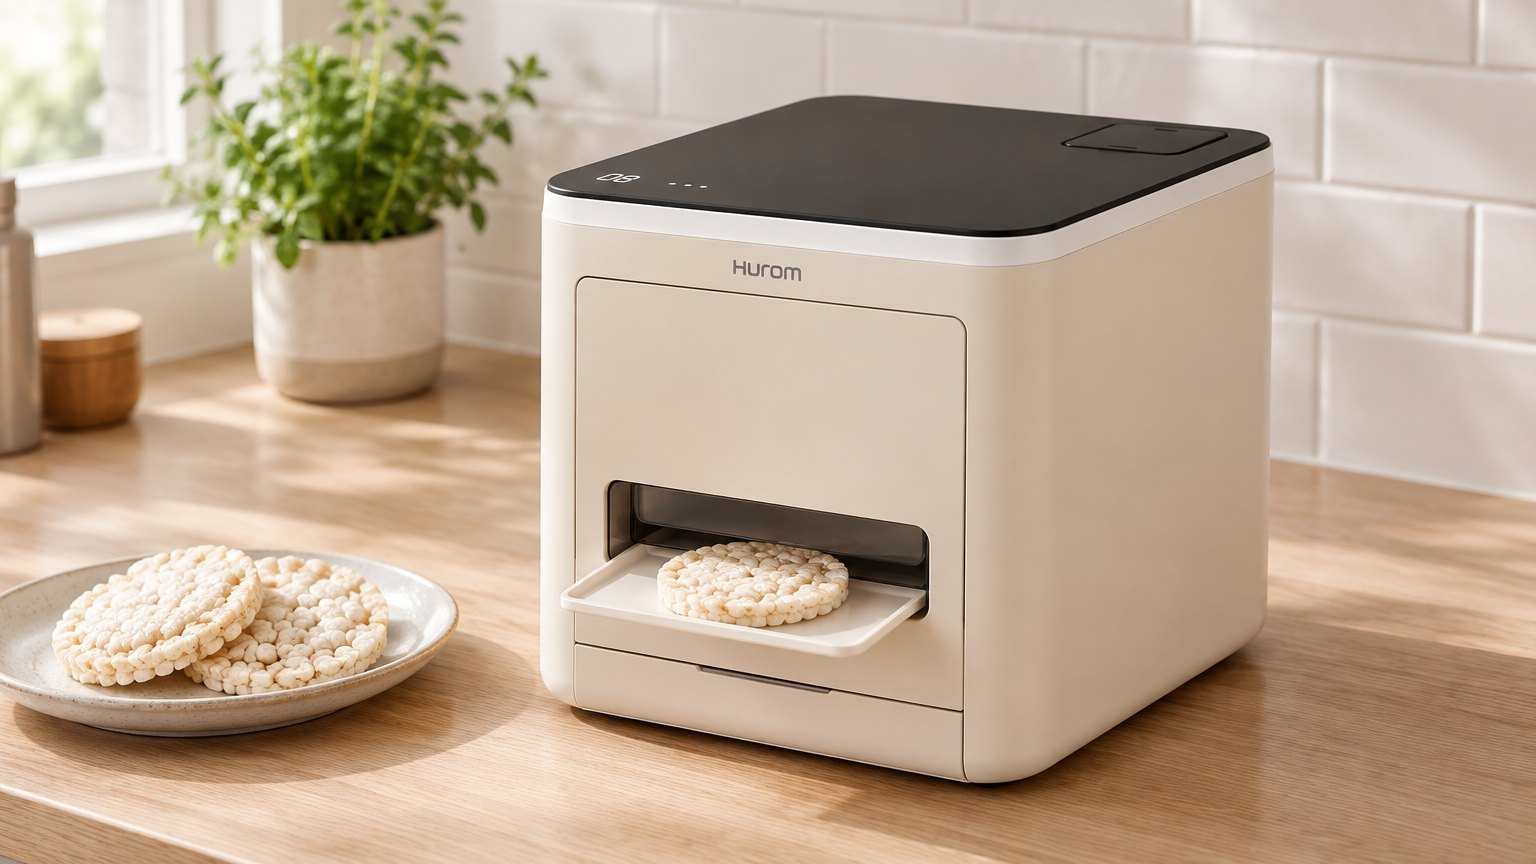
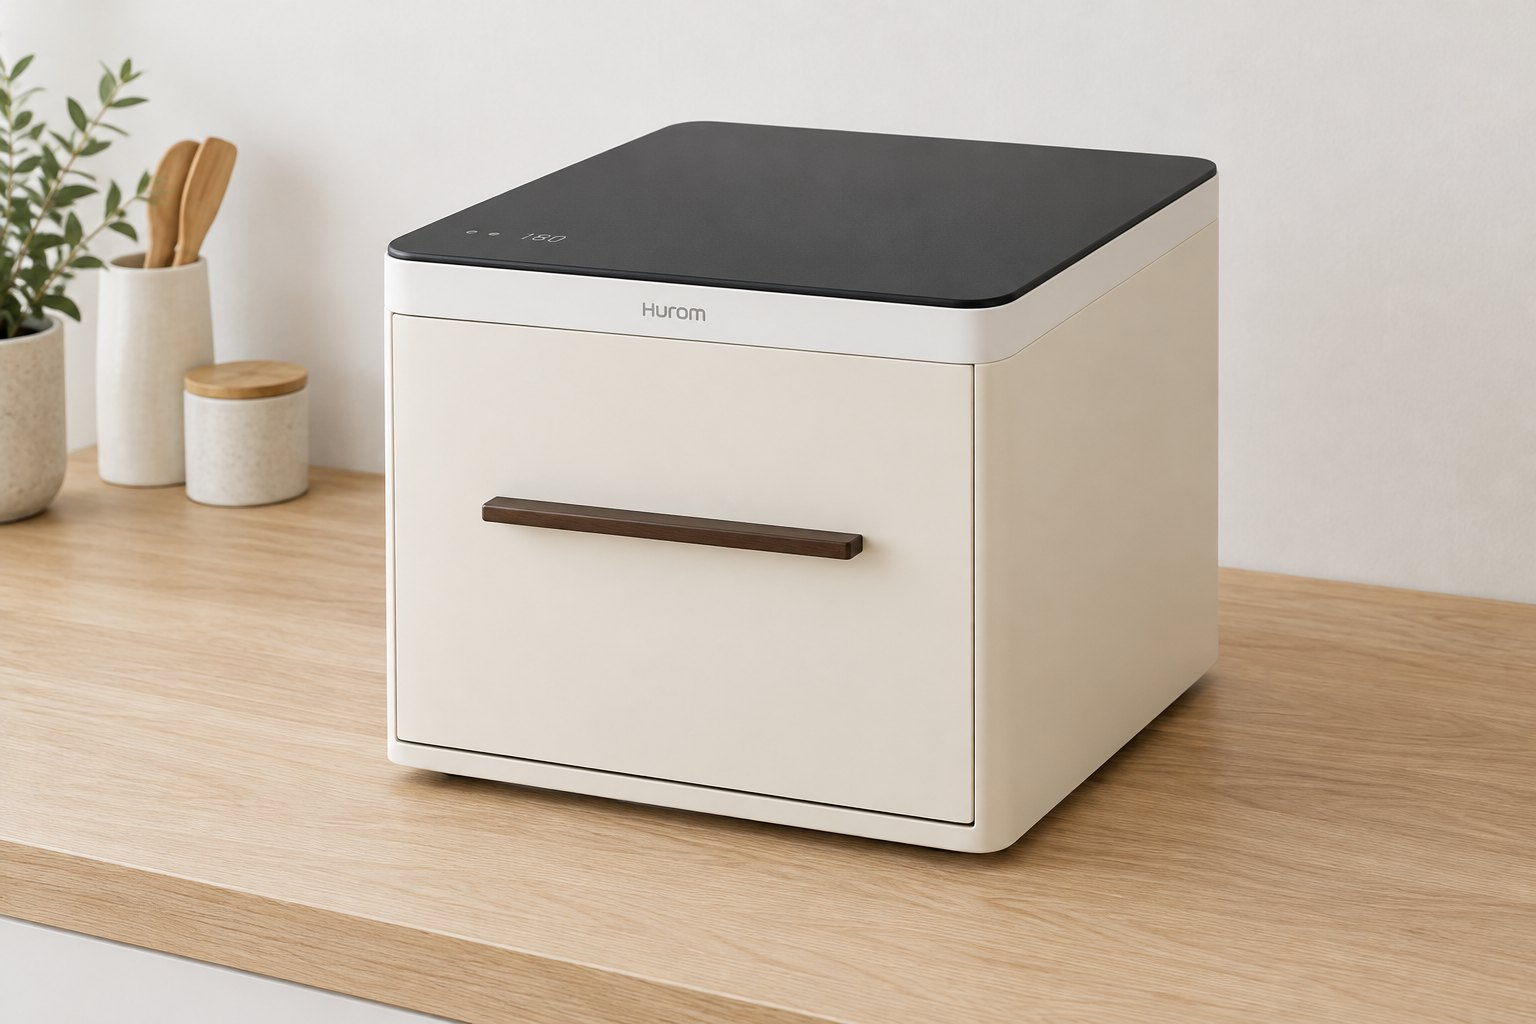
쌀참 r7: 실사 3장 서랍 구조로 새로(hero · open · family) · 옛 실사 삭제

diff --git a/index.html b/index.html
@@ -181,7 +181,7 @@ footer .ver{font-size:9.5px;color:#b8b2a6;margin-left:10px}
         <div><b>2<i>가지</i></b><span>씻을 것(트레이 · 받침)</span></div>
       </div>
     </div>
-    <div class="pic"><img src="captures/3d_front.png" alt="휴롬 쌀참 — 구조 3D 겉모습"></div>
+    <div class="pic"><img src="img/photo_hero.jpg" alt="휴롬 쌀참 — 실사 컨셉(AI 생성)"></div>
   </div>
 </header>
 
@@ -242,8 +242,8 @@ footer .ver{font-size:9.5px;color:#b8b2a6;margin-left:10px}
     <div class="rv"><div class="kicker">04 · 디자인</div>
     <h2>검은 상판 한 장 아래 <b>다 숨깁니다.</b><br>앞면엔 서랍 하나.</h2>
     <p class="lead">네모 큐브, 창 없는 검은 상판, 그 아래 얇은 흰 띠, 꺼지면 사라지는 터치와 숫자. 앞면엔 옆 패널과 같은 색의 서랍 앞판과 가는 손잡이, 그 아래 얇은 부스러기 받침 턱뿐입니다. 가열 제품인데도 금속과 히터는 밖에서 하나도 보이지 않고, 겉에서 움직이는 건 사람이 당기는 서랍뿐입니다.</p></div>
-    <div class="photo rv"><img src="captures/3d_family.png" alt="쌀참 3D — 앞 45°"></div>
-    <p class="cap rv">구조 3D 겉모습 · 약 22 × 22 × 20cm, 조리대 한 자리. 3D 칸에서 돌려 보고 옆면 색을 바꿀 수 있습니다. 실사 컨셉 이미지는 서랍 구조로 다시 만듭니다.</p>
+    <div class="photo rv"><img src="img/photo_family.jpg" alt="휴롬 원액기 옆 쌀참 — 실사 컨셉(AI 생성)"></div>
+    <p class="cap rv">휴롬 원액기 옆 쌀참 · 실사 컨셉(AI 생성). 약 22 × 22 × 20cm, 조리대 한 자리. 앞면엔 서랍 앞판과 손잡이뿐 — 창 · 슬롯 · 문이 없습니다. 3D 칸에서 돌려 보고 옆면 색을 바꿀 수 있습니다.</p>
     <div class="grid4">
       <div class="card rv"><small>형태</small><strong>손바닥 두 뼘 큐브</strong><p>약 22 × 22 × 20cm. 조리대 위 한 자리, 원액기 옆에 두면 한 줄로 섭니다.</p></div>
       <div class="card rv"><small>상판</small><strong>창 없는 검은 불투명 상판</strong><p>위 열판이 고정이라 창을 어디에 내도 떡뻥은 보이지 않습니다. 그래서 창을 없애고 유리 대신 내열 도장 강판으로. 상판은 움직이지 않습니다.</p></div>
@@ -263,6 +263,8 @@ footer .ver{font-size:9.5px;color:#b8b2a6;margin-left:10px}
   <div class="wrap">
     <div class="rv"><div class="kicker">05 · 사용</div>
     <h2>서랍, 한 숟가락, 터치.<br><b>세 단계</b>뿐입니다.</h2></div>
+    <div class="photo rv"><img src="img/photo_open.jpg" alt="서랍을 빼면 트레이 틀 안에 떡뻥 한 장 — 실사 컨셉(AI 생성)"></div>
+    <p class="cap rv">서랍을 빼면 몰드 트레이 틀 안에 떡뻥 한 장 · 옆에 ⑫ 계량 숟가락과 마른 쌀 · 실사 컨셉(AI 생성).</p>
     <div class="steps">
       <figure class="rv"><img src="img/step1.svg" alt="1 서랍 빼서 쌀 넣기"><figcaption><b><i>1</i>서랍 빼서 한 숟가락</b><p>예열 불빛이 켜지면 서랍을 당겨 빼고, 같이 든 계량 숟가락으로 마른 쌀 3g을 틀에 넣습니다. 불리지 않습니다. 쌀은 틀 바닥에 한 겹으로 퍼집니다.</p></figcaption></figure>
       <figure class="rv"><img src="img/step2.svg" alt="2 밀어 넣고 터치"><figcaption><b><i>2</i>밀어 넣고 터치</b><p>서랍을 끝까지 밀면 잠기고, 시작을 누르면 10초. 피스톤이 트레이째 올려 누르고 「뻥」 뒤 천천히 내립니다. 불빛이 완료로 바뀝니다.</p></figcaption></figure>
@@ -1615,7 +1617,7 @@ footer .ver{font-size:9.5px;color:#b8b2a6;margin-left:10px}
       <li>EU Regulation 2017/2158 — 아크릴아마이드 벤치마크(과자류 350 · 감자칩 750µg/kg). 1차.</li>
       <li>NSF H1 — 식품 기계용 윤활제 등급. 2차.</li>
     </ol>
-    <p class="cap">그림은 모두 구조 설명용 2.5D · 3D입니다. 숫자는 벤치 전 목표치이며, TBD는 견적 · 조사 뒤 채웁니다.</p>
+    <p class="cap">실사 이미지는 모두 AI 생성 컨셉이고, 구조 그림은 2.5D · 3D입니다. 숫자는 벤치 전 목표치이며, TBD는 견적 · 조사 뒤 채웁니다.</p>
   </div>
 </section>
 <footer><div class="wrap">휴롬 쌀참 · 신제품 기획 제안서 · <a href="https://www.figma.com/design/JeHF6ltyqlQTJdEbAcmmjv">디자인 보드(Figma)</a><span class="ver">r7 · 2026-11-25</span></div></footer>

diff --git a/test/body_v7.html b/test/body_v7.html
@@ -15,7 +15,7 @@
         <div><b>2<i>가지</i></b><span>씻을 것(트레이 · 받침)</span></div>
       </div>
     </div>
-    <div class="pic"><img src="captures/3d_front.png" alt="휴롬 쌀참 — 구조 3D 겉모습"></div>
+    <div class="pic"><img src="img/photo_hero.jpg" alt="휴롬 쌀참 — 실사 컨셉(AI 생성)"></div>
   </div>
 </header>
 
@@ -76,8 +76,8 @@
     <div class="rv"><div class="kicker">04 · 디자인</div>
     <h2>검은 상판 한 장 아래 <b>다 숨깁니다.</b><br>앞면엔 서랍 하나.</h2>
     <p class="lead">네모 큐브, 창 없는 검은 상판, 그 아래 얇은 흰 띠, 꺼지면 사라지는 터치와 숫자. 앞면엔 옆 패널과 같은 색의 서랍 앞판과 가는 손잡이, 그 아래 얇은 부스러기 받침 턱뿐입니다. 가열 제품인데도 금속과 히터는 밖에서 하나도 보이지 않고, 겉에서 움직이는 건 사람이 당기는 서랍뿐입니다.</p></div>
-    <div class="photo rv"><img src="captures/3d_family.png" alt="쌀참 3D — 앞 45°"></div>
-    <p class="cap rv">구조 3D 겉모습 · 약 22 × 22 × 20cm, 조리대 한 자리. 3D 칸에서 돌려 보고 옆면 색을 바꿀 수 있습니다. 실사 컨셉 이미지는 서랍 구조로 다시 만듭니다.</p>
+    <div class="photo rv"><img src="img/photo_family.jpg" alt="휴롬 원액기 옆 쌀참 — 실사 컨셉(AI 생성)"></div>
+    <p class="cap rv">휴롬 원액기 옆 쌀참 · 실사 컨셉(AI 생성). 약 22 × 22 × 20cm, 조리대 한 자리. 앞면엔 서랍 앞판과 손잡이뿐 — 창 · 슬롯 · 문이 없습니다. 3D 칸에서 돌려 보고 옆면 색을 바꿀 수 있습니다.</p>
     <div class="grid4">
       <div class="card rv"><small>형태</small><strong>손바닥 두 뼘 큐브</strong><p>약 22 × 22 × 20cm. 조리대 위 한 자리, 원액기 옆에 두면 한 줄로 섭니다.</p></div>
       <div class="card rv"><small>상판</small><strong>창 없는 검은 불투명 상판</strong><p>위 열판이 고정이라 창을 어디에 내도 떡뻥은 보이지 않습니다. 그래서 창을 없애고 유리 대신 내열 도장 강판으로. 상판은 움직이지 않습니다.</p></div>
@@ -97,6 +97,8 @@
   <div class="wrap">
     <div class="rv"><div class="kicker">05 · 사용</div>
     <h2>서랍, 한 숟가락, 터치.<br><b>세 단계</b>뿐입니다.</h2></div>
+    <div class="photo rv"><img src="img/photo_open.jpg" alt="서랍을 빼면 트레이 틀 안에 떡뻥 한 장 — 실사 컨셉(AI 생성)"></div>
+    <p class="cap rv">서랍을 빼면 몰드 트레이 틀 안에 떡뻥 한 장 · 옆에 ⑫ 계량 숟가락과 마른 쌀 · 실사 컨셉(AI 생성).</p>
     <div class="steps">
       <figure class="rv"><img src="img/step1.svg" alt="1 서랍 빼서 쌀 넣기"><figcaption><b><i>1</i>서랍 빼서 한 숟가락</b><p>예열 불빛이 켜지면 서랍을 당겨 빼고, 같이 든 계량 숟가락으로 마른 쌀 3g을 틀에 넣습니다. 불리지 않습니다. 쌀은 틀 바닥에 한 겹으로 퍼집니다.</p></figcaption></figure>
       <figure class="rv"><img src="img/step2.svg" alt="2 밀어 넣고 터치"><figcaption><b><i>2</i>밀어 넣고 터치</b><p>서랍을 끝까지 밀면 잠기고, 시작을 누르면 10초. 피스톤이 트레이째 올려 누르고 「뻥」 뒤 천천히 내립니다. 불빛이 완료로 바뀝니다.</p></figcaption></figure>
@@ -410,7 +412,7 @@
       <li>EU Regulation 2017/2158 — 아크릴아마이드 벤치마크(과자류 350 · 감자칩 750µg/kg). 1차.</li>
       <li>NSF H1 — 식품 기계용 윤활제 등급. 2차.</li>
     </ol>
-    <p class="cap">그림은 모두 구조 설명용 2.5D · 3D입니다. 숫자는 벤치 전 목표치이며, TBD는 견적 · 조사 뒤 채웁니다.</p>
+    <p class="cap">실사 이미지는 모두 AI 생성 컨셉이고, 구조 그림은 2.5D · 3D입니다. 숫자는 벤치 전 목표치이며, TBD는 견적 · 조사 뒤 채웁니다.</p>
   </div>
 </section>
 <footer><div class="wrap">휴롬 쌀참 · 신제품 기획 제안서 · <a href="https://www.figma.com/design/JeHF6ltyqlQTJdEbAcmmjv">디자인 보드(Figma)</a><span class="ver">r7 · 2026-11-25</span></div></footer>

diff --git a/README.md b/README.md
@@ -11,7 +11,8 @@
 ## 기준 구조 (r5 · 2026-11-24)
 - r5: 쌀 길(⓪ 쌀 넣기 — 카세트 → 계량 컵 3g → 슬라이드 전진 → 가운데 낙하 → 후진) · 밀대 없음(⑫ 계량 슬라이드가 밀어내기 겸용) · 가열 방식 칸(위 · 아래 열판 속 시즈 히터 450W × 2 · 떡뻥 220°C · 센서 상한 230 · 퓨즈 250 · 칩 170~180°C · 220V 약 1kW). 2.5D는 test/gen_iso.py(iso_cut · iso_seq 6칸 · iso_explode · iso_heat), 본문 편집 test/edit_v5.py.
 - r6: 칩 모드 넣는 길을 떡뻥과 같게 — 반죽은 칩 카세트(짜는 통 + 넓은 컵 8g, ⑫ 자리에 갈아 끼움) → 계량 슬라이드 → 같은 몰드 링 가운데 → 같은 슬롯 배출. 「칩 몰드(접시)」 삭제 · 앞문은 씻을 때만 · 「열선」 → 「히터」. 본문 편집 test/edit_v6.py.
-- r7(2026-11-25): 몰드 서랍 구조 — 카세트 · 깔때기 · 계량 컵 · 슬라이드 · 배출 슬롯 · 플랩 · 트레이 · 앞문 삭제. 마른 쌀 3g을 ⑫ 계량 숟가락으로 ⑥ 서랍 트레이(Ø6 오목 틀 15mm)에 넣고 밀어 넣음 → ⑤ 피스톤이 트레이째 20mm 올려 ⑦ 플러그(Ø59)가 13.5mm 들어가 누름 → 8~10mm 순간 하강(두께 8~10mm) → 천천히 → 서랍 잠금 해제 → 빼서 꺼냄. ⑬ ㅁ자 강철 틀(힘 길) · ⑧ 뒤 벽 김 구멍 → ⑩ 덕트 → 슬릿(김 길) · 칩 모드는 다음 단계. 2.5D test/gen_iso_v7.py · 본문 test/body_v7.html + edit_v7.py · 3D explode.js v7. 실사 8장은 옛 구조라 내림(재생성 예정).
+- r7(2026-11-25): 몰드 서랍 구조 — 카세트 · 깔때기 · 계량 컵 · 슬라이드 · 배출 슬롯 · 플랩 · 트레이 · 앞문 삭제. 마른 쌀 3g을 ⑫ 계량 숟가락으로 ⑥ 서랍 트레이(Ø6 오목 틀 15mm)에 넣고 밀어 넣음 → ⑤ 피스톤이 트레이째 20mm 올려 ⑦ 플러그(Ø59)가 13.5mm 들어가 누름 → 8~10mm 순간 하강(두께 8~10mm) → 천천히 → 서랍 잠금 해제 → 빼서 꺼냄. ⑬ ㅁ자 강철 틀(힘 길) · ⑧ 뒤 벽 김 구멍 → ⑩ 덕트 → 슬릿(김 길) · 칩 모드는 다음 단계. 2.5D test/gen_iso_v7.py · 본문 test/body_v7.html + edit_v7.py · 3D explode.js v7. 실사는 서랍 구조로 3장 새로(Figma 세션 7b255e22 노드 5:2~5:4 · img/photo_{hero,open,family}.jpg · 원본 out/v7/), 옛 8장 삭제.
+- r7(2026-11-25): 몰드 서랍 구조 — 카세트 · 깔때기 · 계량 컵 · 슬라이드 · 배출 슬롯 · 플랩 · 트레이 · 앞문 삭제. 마른 쌀 3g을 ⑫ 계량 숟가락으로 ⑥ 서랍 트레이(Ø6 오목 틀 15mm)에 넣고 밀어 넣음 → ⑤ 피스톤이 트레이째 20mm 올려 ⑦ 플러그(Ø59)가 13.5mm 들어가 누름 → 8~10mm 순간 하강(두께 8~10mm) → 천천히 → 서랍 잠금 해제 → 빼서 꺼냄. ⑬ ㅁ자 강철 틀(힘 길) · ⑧ 뒤 벽 김 구멍 → ⑩ 덕트 → 슬릿(김 길) · 칩 모드는 다음 단계. 2.5D test/gen_iso_v7.py · 본문 test/body_v7.html + edit_v7.py · 3D explode.js v7. 실사는 서랍 구조로 3장 새로(Figma 세션 7b255e22 노드 5:2~5:4 · img/photo_{hero,open,family}.jpg · 원본 out/v7/), 옛 8장 삭제.
 - r4: 창 없음(위 · 앞) · 불투명 내열 상판 · 앞문으로 몰드 링 분리 · 피스톤 + 고정 몰드 링.
 - 유리 상판 · 위 열판 고정, 아래 열판(몰드)만 바닥 모터 + 토글 링크로 25mm 오르내림(사점 잠금 → 2~3mm 순간 하강 → 천천히). 물통 없음(쌀을 10분 불려 넣음).
 - 부품 번호 ①~⑭ 는 2.5D(test/gen_iso.py → test/iso_*.svg) · 3D(explode.js) 공통. 실사 컨셉 8장은 Figma 보드 JeHF6ltyqlQTJdEbAcmmjv 에서 생성(out/v3/ 원본).
